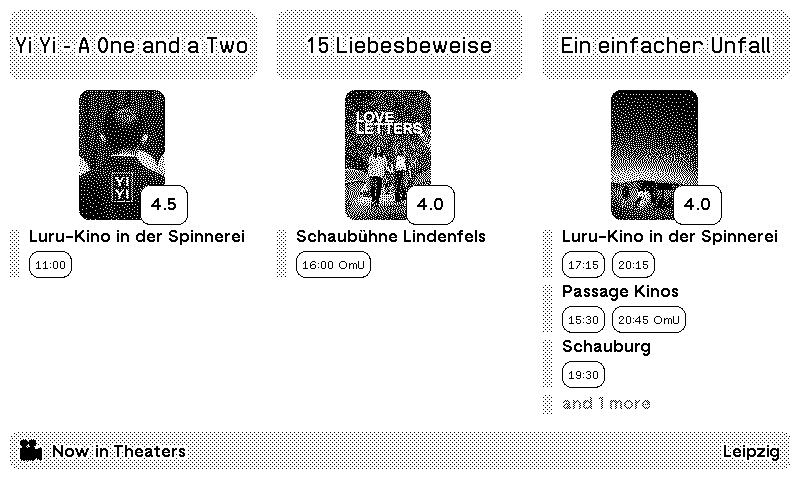
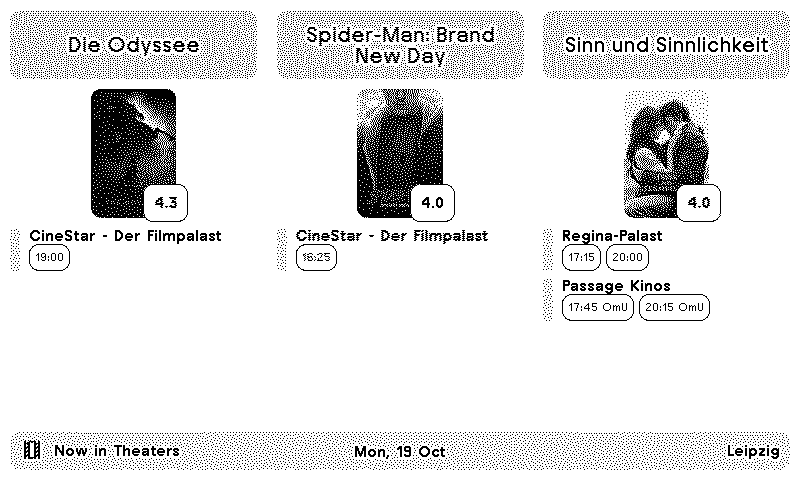
docs: update the README and screenshot
Describe the features and settings, how to run your own copy until the
plugin is published as a Recipe, local runs, tests, debugging with the
plugin logs and the serverless constraints. The screenshot shows the
current design.

diff --git a/README.md b/README.md
@@ -8,15 +8,14 @@ A plugin for [TRMNL displays](https://trmnl.com/) that shows the highest-rated m
 
 ![TRMNL Cinema Plugin Display](TRMNL_Cinema_Plugin_Screenshot.png)
 
-## How It Works
+## Features
 
-The whole plugin runs on TRMNL's servers. There is no backend or scheduled job to host.
-
-- **Data**: On every refresh (hourly), TRMNL runs [src/transform.py](src/transform.py) as a [serverless transform](https://help.trmnl.com/en/articles/14130649-serverless). It scrapes today's programme for the configured city from cinema.de.
-- **Ranking**: Each film is looked up on Letterboxd. Ratings are cached in TRMNL's [Saved State](https://help.trmnl.com/en/articles/16777795-saved-state), so only new films are looked up.
-- **Filtering**: Showtimes that already started are hidden; after the last screening of the day the plugin shows tomorrow's programme. With a Letterboxd username, films you logged recently are hidden.
-- **Display**: Liquid templates for the full, half and quadrant layouts, in landscape and portrait, on TRMNL OG and TRMNL X.
-- **Deployment**: Every push to `main` that touches the plugin is linted, tested and pushed to TRMNL by [GitHub Actions](.github/workflows/trmnl.yml) with [trmnlp](https://github.com/usetrmnl/trmnlp).
+- The 3 best-rated films of the day, each with its cinemas and the showtimes still to come. After the last screening of the day, tomorrow's programme is shown.
+- Works for every town and city on cinema.de.
+- Version tags such as `OmU`, `OV`, `3D` or `70mm` next to each showtime.
+- Optional: hide films you logged on Letterboxd recently, list your preferred cinemas first, exclude cinemas.
+- Full, half and quadrant layouts in landscape and portrait, for TRMNL OG and TRMNL X. The title bar shows the date and the city.
+- Runs entirely on TRMNL's servers: there is nothing to host.
 
 ## Settings
 
@@ -28,16 +27,36 @@ The whole plugin runs on TRMNL's servers. There is no backend or scheduled job t
 | Preferred Cinemas | Optional. Listed first under each film, in this order. Part of the name is enough, e.g. `Schauburg`. |
 | Excluded Cinemas | Optional. Screenings at these cinemas are hidden; a film shown only there drops out. Part of the name is enough. |
 
+## How It Works
+
+- **Data**: On every refresh (hourly), TRMNL runs [src/transform.py](src/transform.py) as a [serverless transform](https://help.trmnl.com/en/articles/14130649-serverless). It scrapes the configured city's programme from cinema.de.
+- **Ranking**: Each film is looked up on Letterboxd. Ratings are cached in TRMNL's [Saved State](https://help.trmnl.com/en/articles/16777795-saved-state), so a refresh only looks up films that are new in the programme.
+- **Display**: The Liquid templates in [src/](src/) render the result with the [TRMNL design framework](https://trmnl.com/framework).
+- **Deployment**: Every push to `main` that touches the plugin is linted, tested and pushed to TRMNL by [GitHub Actions](.github/workflows/trmnl.yml) with [trmnlp](https://github.com/usetrmnl/trmnlp).
+
+## Use It Yourself
+
+Once the plugin is published as a TRMNL Recipe, you can install it from TRMNL directly. Until then, run your own copy (private plugins need TRMNL's Developer edition):
+
+1. Fork this repository.
+2. On TRMNL, create a private plugin with the **Polling** strategy and an empty polling URL. Put the number from its settings URL (`trmnl.com/plugin_settings/<id>/edit`) as `id` into [src/settings.yml](src/settings.yml).
+3. Create an account API key at [trmnl.com/account](https://trmnl.com/account) with the `read` and `content` capabilities, limited to that plugin. Add it to your fork as the repository secret `TRMNL_API_KEY`.
+4. Push to `main` or start the workflow by hand: it lints, tests and uploads the plugin.
+5. Fill in the plugin's settings, upload [assets/theaters.png](assets/theaters.png) as its icon and add it to a playlist.
+
 ## Project Structure
 
 ```
 cinema/
 ├── .github/workflows/
 │   └── trmnl.yml                # Lint, test and push the plugin to TRMNL
+├── .vscode/
+│   └── launch.json              # Debug the transform with live data, or the unit tests
+├── assets/                      # Plugin icon for the TRMNL website (upload by hand)
 ├── bin/
 │   └── trmnlp                   # Runs the trmnlp CLI in Docker
 ├── src/                         # The plugin as TRMNL stores it
-│   ├── settings.yml             # Plugin settings and custom fields (pushed to TRMNL)
+│   ├── settings.yml             # Plugin settings and custom fields
 │   ├── transform.py             # Serverless transform: scraping, ranking, caching
 │   ├── shared.liquid            # Styles and templates shared by all views
 │   ├── full.liquid              # Full screen view
@@ -47,7 +66,7 @@ cinema/
 ├── tests/
 │   ├── test_transform.py        # Unit tests for the transform (offline)
 │   ├── plugin_spec.rb           # Rendering tests on all TRMNL devices (trmnlp test)
-│   └── fixtures/                # Saved cinema.de page
+│   └── fixtures/                # Saved cinema.de page, test poster
 ├── .trmnlp.yml                  # Local preview settings (not pushed)
 └── README.md
 ```
@@ -56,8 +75,17 @@ cinema/
 
 ### Requirements
 
-- [Docker](https://docs.docker.com/get-docker/) for `bin/trmnlp`
-- Python 3.12 with `requests` for the unit tests (TRMNL's serverless runtime uses Python 3.12)
+- [Docker](https://docs.docker.com/get-docker/) for `bin/trmnlp`. On Windows, run it from Git Bash.
+- Python 3.12 with `requests` (TRMNL's serverless runtime uses Python 3.12)
+
+### Run the transform locally
+
+```bash
+python src/transform.py Leipzig                   # prints what the views get, with live data
+python src/transform.py Berlin your_letterboxd    # with a Letterboxd username
+```
+
+In VS Code, the **Transform (live data)** and **Unit tests** launch configurations run the same under the debugger.
 
 ### Preview
 
@@ -66,7 +94,7 @@ bin/trmnlp serve        # live preview at http://localhost:4567, runs the real t
 bin/trmnlp build --png  # renders every view to _build/
 ```
 
-The preview uses the custom field values from [.trmnlp.yml](.trmnlp.yml). Set `LETTERBOXD_USERNAME` in your environment to try the watched-films filter. On Windows, run `bin/trmnlp` from Git Bash.
+The preview uses the custom field values from [.trmnlp.yml](.trmnlp.yml). Set `LETTERBOXD_USERNAME` in your environment to try the watched-films filter.
 
 ### Tests
 
@@ -76,16 +104,24 @@ bin/trmnlp lint                        # TRMNL best practices
 bin/trmnlp test --report report        # renders all views on all devices; open report/index.html
 ```
 
+The rendering tests mock cinema.de and Letterboxd. They deliberately don't freeze the clock with `now:`: trmnlp's frozen clock slows the transform down several times, which broke TRMNL's 5 second limit on GitHub's runners.
+
+### Debugging on TRMNL
+
+TRMNL logs every refresh with the transform's duration and the first few hundred characters of its output. Read them with an account API key that has the `read` capability:
+
+```bash
+curl -H "Authorization: Bearer $TRMNL_API_KEY" "https://trmnl.com/api/plugin_settings/<id>/logs?limit=10"
+```
+
+The output begins with `city_setting`, the city value TRMNL passed in, so a setting that doesn't seem to apply is easy to spot.
+
 ### Constraints of TRMNL's serverless runtime
 
-- 5 seconds and 128 MB per run. The transform stops looking up films after 2.5 seconds and continues on the next refresh.
+- 5 seconds and 128 MB per run. The transform stops looking up films after 2.5 seconds and continues on the next refresh; all network calls run on daemon threads, so none can hold up the end of a run.
 - Only `requests` and the Python standard library are available: HTML is parsed with `html.parser`, RSS with `xml.etree`.
 - There is no time zone database, so German time is computed in `german_now()`.
 - Saved State holds at most 8 KB. `build_state()` trims the rating cache to fit.
-
-### Deployment
-
-Pushes to `main` deploy automatically. The workflow needs the repository secret `TRMNL_API_KEY`: a TRMNL account API key with the `read` and `content` capabilities, created at [trmnl.com/account](https://trmnl.com/account). The plugin it updates is set by `id` in [src/settings.yml](src/settings.yml).
 
 ## Third-Party Assets
 
